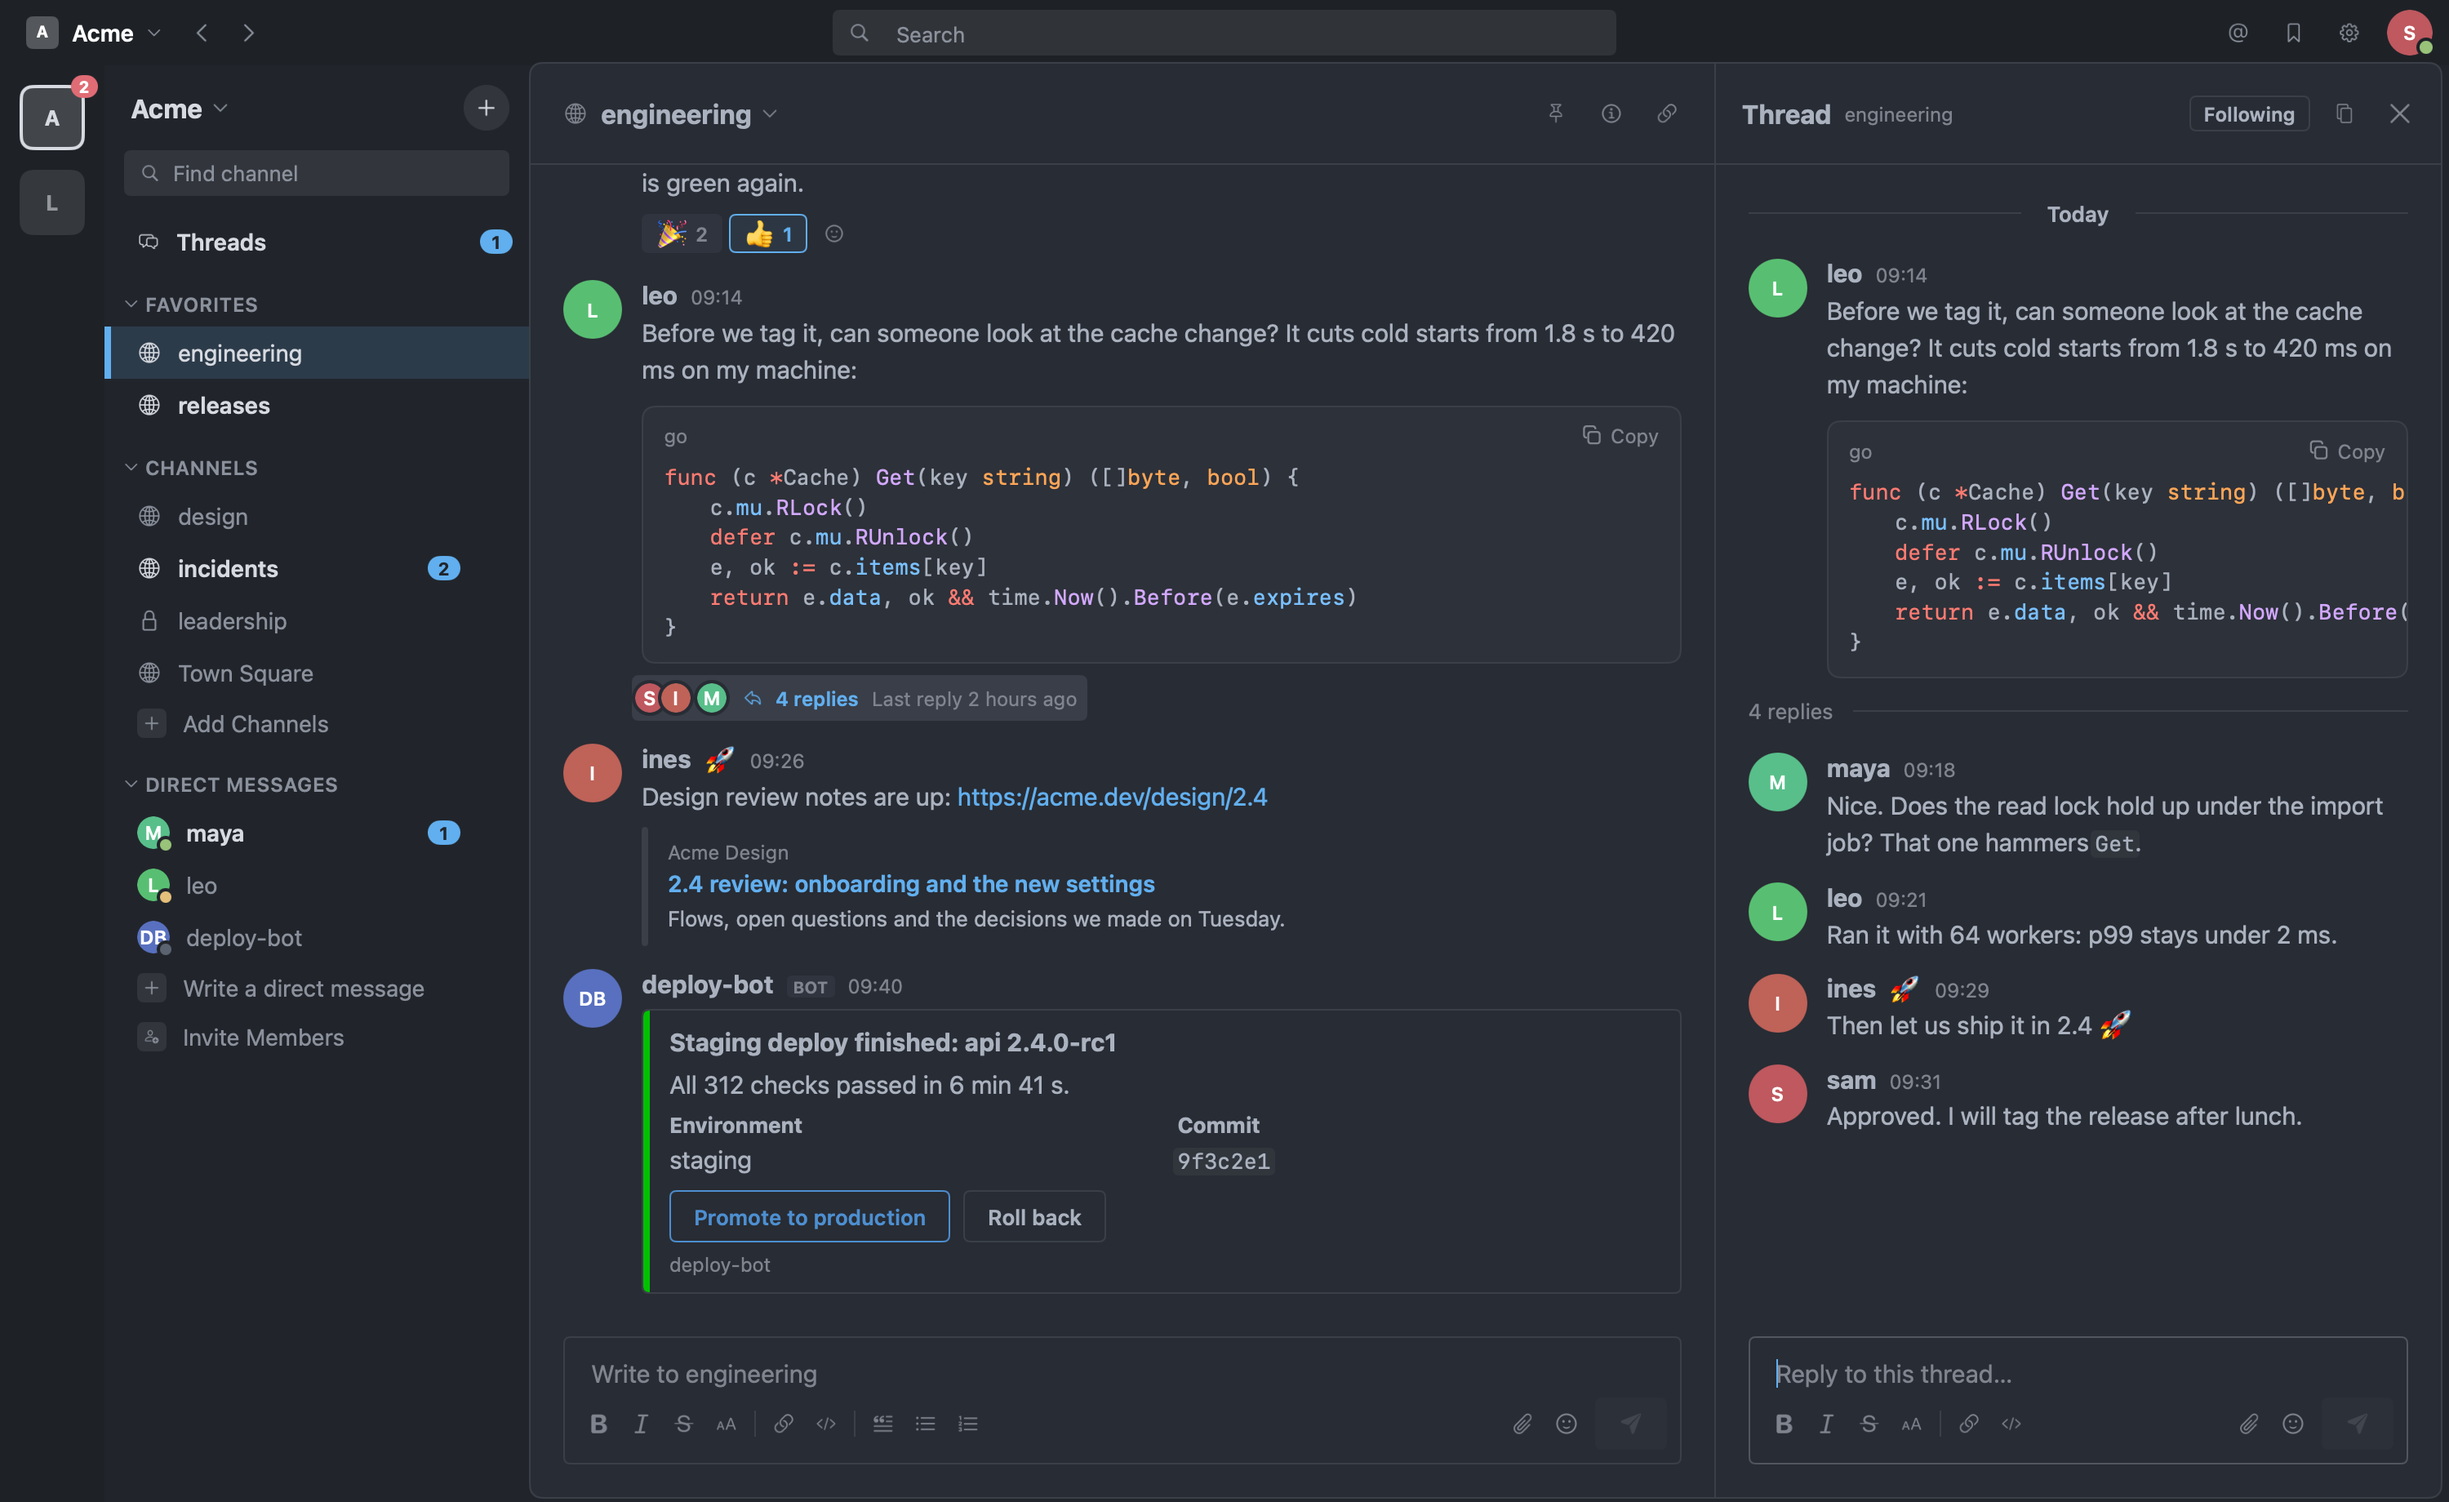
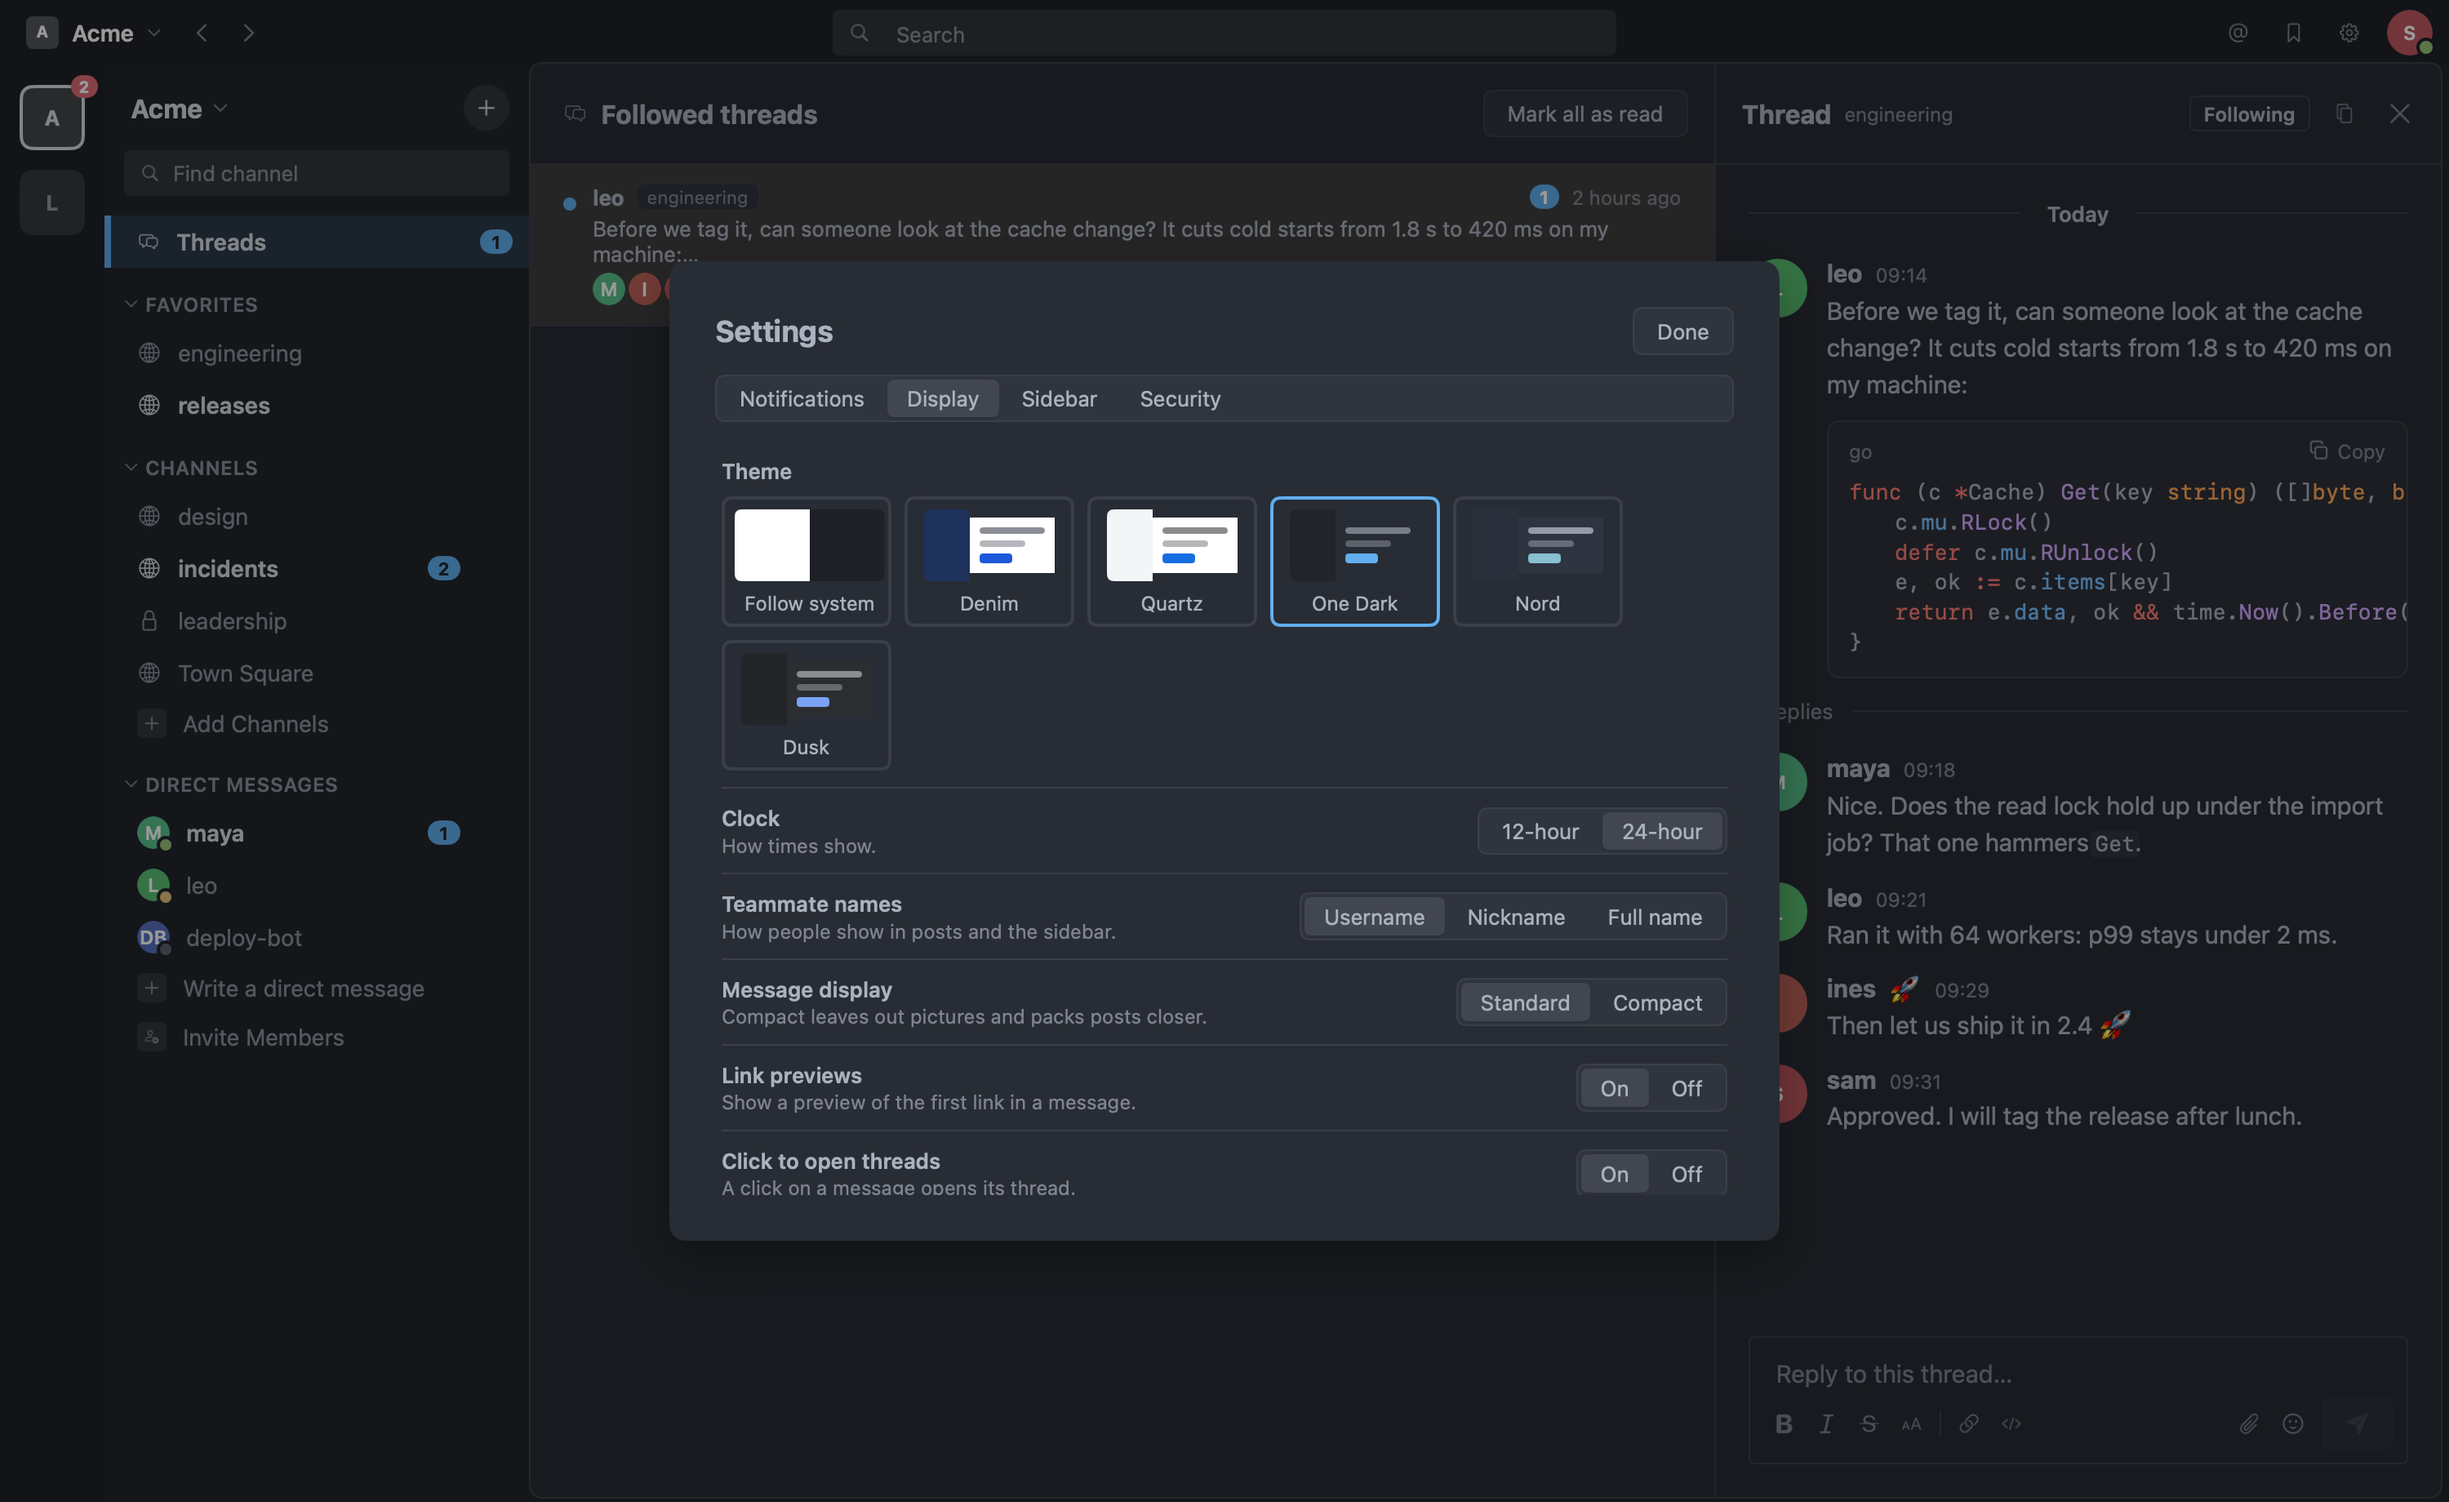
docs(readme): show other parts of the app in the dark screenshot
The dark picture repeated the light one in another theme. It now shows the Threads view and the theme settings. The Follow system card of the settings draws its light and dark halves, which it left blank, and the demo threads carry their last reply time.

diff --git a/scripts/screenshot/main.go b/scripts/screenshot/main.go
@@ -2,7 +2,8 @@
 //
 //	go run ./scripts/screenshot -out docs/screenshots
 //
-// It writes light.png (Denim) and dark.png (One Dark) at twice the size.
+// It writes light.png (Denim: a channel and a thread) and dark.png (One
+// Dark: the Threads view and the themes in Settings) at twice the size.
 package main
 
 import (
@@ -49,13 +50,28 @@ func main() {
 		a.Theme = theme.id
 		tt := ui.NewTester(v.Build, 1500, 920)
 		tt.SetScale(2)
-		for range 6 {
-			for _, f := range queue {
-				f()
+		settle := func() {
+			for range 6 {
+				for _, f := range queue {
+					f()
+				}
+				queue = nil
+				tt.Frame()
+				time.Sleep(50 * time.Millisecond)
 			}
-			queue = nil
-			tt.Frame()
-			time.Sleep(50 * time.Millisecond)
+		}
+		settle()
+		if theme.id == "onedark" {
+			// The dark picture shows other parts: the Threads view, and the
+			// themes in Settings.
+			s.ThreadsView = true
+			settle()
+			for _, label := range []string{"Settings", "Display"} {
+				if err := tt.Click(label); err != nil {
+					log.Fatal(err)
+				}
+				settle()
+			}
 		}
 		f, err := os.Create(filepath.Join(*out, theme.file))
 		if err != nil {
@@ -111,7 +127,7 @@ func fill(s *app.Server) {
 		{ID: "chans", Type: store.CategoryChannels, DisplayName: "Channels", Channels: []store.ChannelID{"design", "incidents", "town", "lead"}},
 		{ID: "dms", Type: store.CategoryDirect, DisplayName: "Direct Messages", Sorting: "recent", Channels: []store.ChannelID{"dm-maya", "dm-leo", "dm-bot"}},
 	}})
-	st.Apply(store.ThreadsLoaded{Team: "acme", Threads: []store.ThreadState{{Root: "p2", Team: "acme", ReplyCount: 4, UnreadReplies: 2, UnreadMentions: 1, Following: true}}})
+	st.Apply(store.ThreadsLoaded{Team: "acme", Threads: []store.ThreadState{{Root: "p2", Team: "acme", ReplyCount: 4, LastReplyAt: at(9, 31), UnreadReplies: 2, UnreadMentions: 1, Participants: []store.UserID{"maya", "ines", "me"}, Following: true}}})
 	s.Team, s.Channel = "acme", "eng"
 	post := func(id, user string, h, m int, msg string) store.Post {
 		return store.Post{ID: store.PostID(id), ChannelID: "eng", UserID: store.UserID(user), CreateAt: at(h, m), Message: msg}

diff --git a/internal/view/settings.go b/internal/view/settings.go
@@ -189,8 +189,8 @@ func (v *View) displaySettings(c *ui.Context, s *app.Server) {
 					ui.Column(c).Gap(6).Children(func() {
 						ui.Row(c).FillWidth().Height(44).Radius(4).Clip().Children(func() {
 							if l == nil {
-								ui.Box(c).Grow(1).Background(lookFor("denim", false).pal.sidebar)
-								ui.Box(c).Grow(1).Background(lookFor("onedark", true).pal.sidebar)
+								ui.Box(c).Width(46).FillHeight().Background(lookFor("denim", false).bg)
+								ui.Box(c).Width(46).FillHeight().Background(lookFor("onedark", true).pal.topBar)
 								return
 							}
 							ui.Box(c).Width(28).FillHeight().Background(l.pal.sidebar)

diff --git a/README.md b/README.md
@@ -96,7 +96,7 @@ Update with `brew upgrade --cask mattermost-go`.
   messages.
 - Several servers at once, each with its own login.
 
-![The same window in the One Dark theme](docs/screenshots/dark.png)
+![The Threads view and the theme settings, in One Dark](docs/screenshots/dark.png)
 
 ## Not there yet
 
